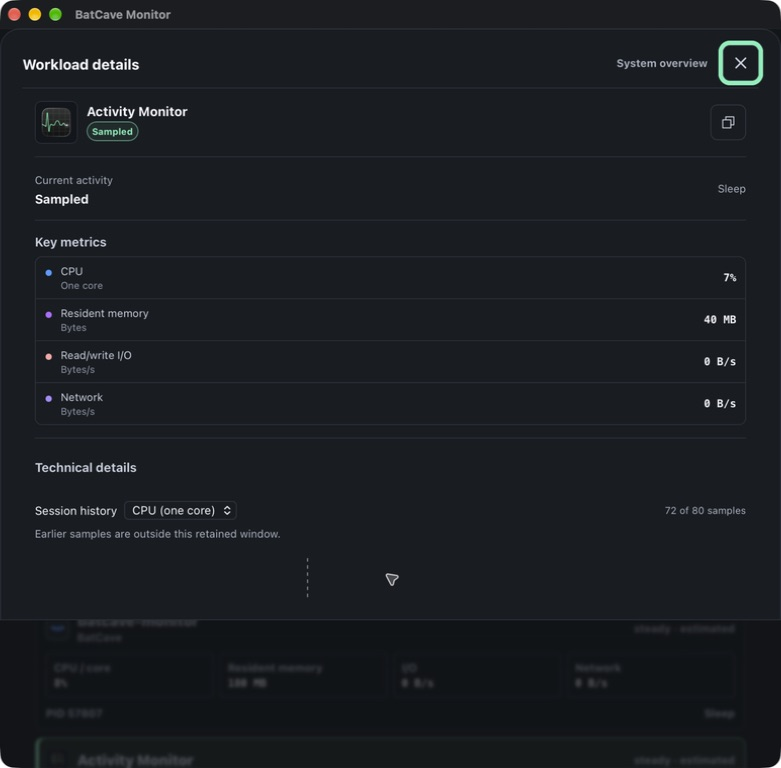
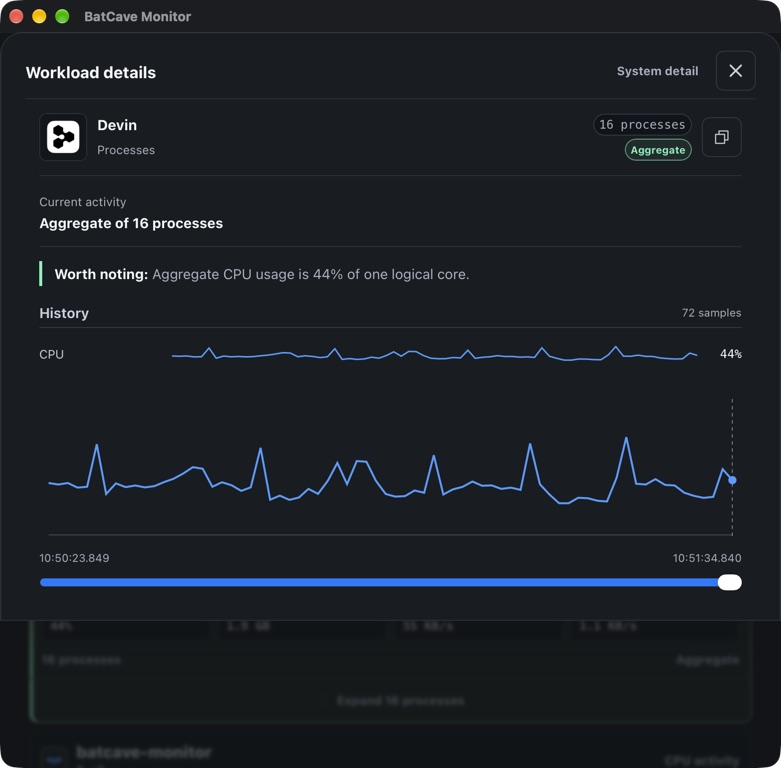
docs: refresh native screenshots for the reworked inspector
Generated with [Devin](https://devin.ai)

diff --git a/design-qa.md b/design-qa.md
@@ -1,35 +1,35 @@
 # Native UI evidence
 
-These screenshots show the native Apple Silicon app with live local telemetry on September 5, 2026. They cover Overview, Explore, and the compact workload inspector after the resource-readout and macOS network-collection fixes.
+These screenshots show the native Apple Silicon app with live local telemetry on September 15, 2026. They cover Overview, Explore, and the compact workload inspector after the ranking, status-strip, and inspector changes in this revision.
 
 | Capture | Details |
 | --- | --- |
-| Source | `7242f3c186d59ab6fbbbfbdbdacf133ae41816f4` |
-| App | BatCave Monitor `0.2.0-rc.5`, local ad-hoc build |
-| Host | Apple Silicon, macOS 27.0, build `26A5421a` |
+| Source | `9570141` (`devin/1789304882-ux-findings`) |
+| App | BatCave Monitor `0.2.0-rc.5`, local `tauri dev` debug build |
+| Host | Apple Silicon, macOS 27.0, build `26A428` |
 | Appearance | Cave, system dark mode |
-| Method | Direct native-window captures through Computer Use |
-| Window sizes | Overview and Explore: 1179 × 768; compact inspector: 781 × 768 |
[1 lines of base64/hex data omitted]
+| Method | Direct native-window captures (`screencapture -l`) of the running Tauri window, downscaled from 2x to 1x |
+| Window sizes | Overview and Explore: 1320 × 860; compact inspector: 781 × 768 |
[1 lines of base64/hex data omitted]
 
-The captured app predates the PostCSS dependency update; its UI and collector source match the final PR. The images are unedited native captures, not browser fixtures or mockups.
+The images are unedited native captures, not browser fixtures or mockups.
 
 ## Overview
 
-Read and write rates occupy separate lines, keeping each value beside its unit as activity changes. Network download and upload rates use the same layout.
+The status strip under the resource cards is always present, so a monitor warning changes its color rather than pushing Leading workloads down. Rankings settle: near-tied rows keep their positions between samples.
 
-![Native Overview with machine resources and leading workloads](docs/images/batcave-monitor-macos-overview.jpg)
+![Native Overview with machine resources, the status strip, and leading workloads](docs/images/batcave-monitor-macos-overview.jpg)
 
 ## Explore
 
-The selected workload keeps its inspector and recorded history beside the ranked list.
+The inspector shows the selected workload's history for all four resources as thin strips with their latest values. Selecting a strip expands it into the scrubbable chart. Technical details are limited to process identity.
 
-![Native Explore with Activity Monitor selected and its session history visible](docs/images/batcave-monitor-macos-explore.jpg)
+![Native Explore with the Devin workload group selected and its CPU history expanded](docs/images/batcave-monitor-macos-explore.jpg)
 
 ## Compact inspector
 
-At a narrow window width, workload details open in a drawer. Native verification covered scrolling to the history chart, closing with Escape, and returning focus to the selected workload.
+At a narrow window width, workload details open in a drawer with the same history strips. Native verification covered expanding a strip, closing with Escape, and returning focus to the selected workload card.
 
-![Native compact workload inspector](docs/images/batcave-monitor-macos-compact-inspector.jpg)
+![Native compact workload inspector with the CPU history expanded](docs/images/batcave-monitor-macos-compact-inspector.jpg)
 
-The final native session showed live process network activity and no active collector limitation. Diagnostics still lists unavailable macOS kernel CPU as a data limitation. These captures establish visible behavior; performance budgets and signed release verification remain separate requirements in [the implementation record](docs/rescue-implementation.md).
+The capture session ran with live process network activity. Diagnostics still lists unavailable macOS kernel CPU as a data limitation. These captures establish visible behavior; performance budgets and signed release verification remain separate requirements in [the implementation record](docs/rescue-implementation.md).

diff --git a/README.md b/README.md
@@ -12,7 +12,7 @@ BatCave shows machine-wide CPU, memory, disk, and network activity alongside the
 
 ![BatCave Monitor showing machine activity and leading workloads in the native Apple Silicon app](docs/images/batcave-monitor-macos-overview.jpg)
 
-<p align="center"><sub>Native Apple Silicon app, captured September 5, 2026. <a href="design-qa.md">Capture details</a>.</sub></p>
+<p align="center"><sub>Native Apple Silicon app, captured September 15, 2026. <a href="design-qa.md">Capture details</a>.</sub></p>
 
 ## Find the problem, then inspect it
 
@@ -25,9 +25,9 @@ BatCave shows machine-wide CPU, memory, disk, and network activity alongside the
 
 If the operating system denies a process, a collector is still warming up, or a source cannot support a metric, BatCave says so. It does not turn missing telemetry into zeroes.
 
-![BatCave Monitor inspecting a workload and its recorded history in Explore](docs/images/batcave-monitor-macos-explore.jpg)
+![BatCave Monitor inspecting a workload's history for every resource in Explore](docs/images/batcave-monitor-macos-explore.jpg)
 
-<p align="center"><sub>Explore shows the selected workload’s history, current readings, and measurement sources.</sub></p>
+<p align="center"><sub>Explore shows the selected workload's history for each resource; select a strip to expand it.</sub></p>
 
 ## Per-process network activity
 
